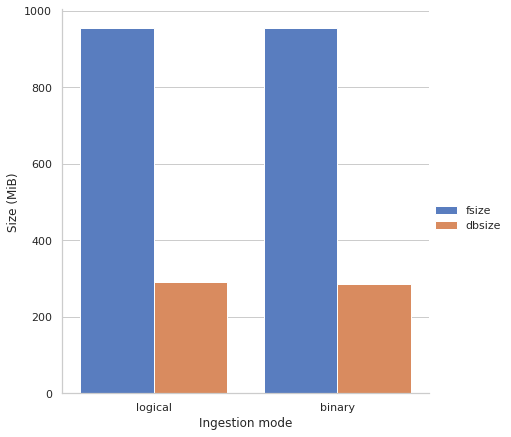
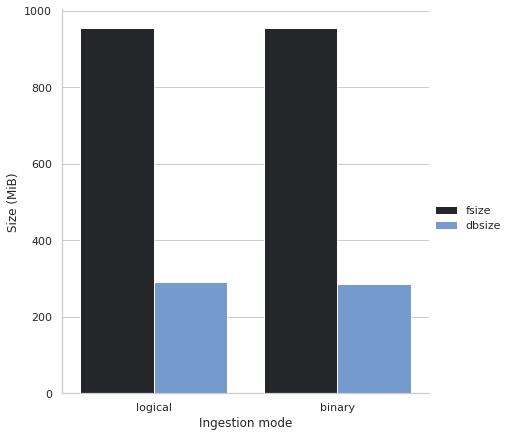
Alter color palette for monochrome requirements

diff --git a/experiment_graphs.py b/experiment_graphs.py
@@ -196,6 +196,7 @@ for experiment_id in exps:
 # %%
 # Filtering DataFrame to only 'zlib' experiments
 df = df[df["compression_method"] == "zlib"]
+df = df[df["nsnps"] != 50000000.0]
 
 # %% [markdown]
 # #### Criando colunas concatenadas
@@ -235,7 +236,7 @@ df_melted.loc[df_melted["nsnps"] == 50000000, "nsnps"] = nsnps_ids[float(5000000
 df_melted.loc[df_melted["nsnps"] == 1000000, "nsnps"] = nsnps_ids[float(1000000)]
 df_melted.loc[df_melted["nsnps"] == 100000, "nsnps"] = nsnps_ids[float(100000)]
 df_melted = df_melted[df_melted["file_type"] != "Media"]
-sns.set(style="whitegrid", palette=sns.color_palette("muted", n_colors=6, desat=1.0))
+sns.set(style="whitegrid", palette=sns.color_palette("Blues_d", n_colors=3, desat=1.0))
 snsplot = sns.catplot(
     x="file_type",
     y="value",
@@ -277,7 +278,7 @@ df_melted["variable"] = (
 )
 df_melted["value"] /= 1024 ** 2
 df_melted = df_melted[df_melted["file_type"] != "Media"]
-sns.set(style="whitegrid", palette=sns.color_palette("muted", n_colors=6, desat=1.0))
+sns.set(style="whitegrid", palette=sns.color_palette("Blues_d", n_colors=6, desat=1.0))
 snsplot = sns.catplot(
     x="file_type",
     y="value",
@@ -331,16 +332,20 @@ df_melted = pd.melt(
     id_vars=["experiment_id", "compression_method", "file_type", "nsnps", "nsamples"],
     value_vars=["time"],
 )
-sns.set(style="whitegrid", palette=sns.color_palette("muted", n_colors=6, desat=1.0))
+df_melted.loc[df_melted["nsnps"] == 50000000, "nsnps"] = nsnps_ids[float(50000000)]
+df_melted.loc[df_melted["nsnps"] == 1000000, "nsnps"] = nsnps_ids[float(1000000)]
+df_melted.loc[df_melted["nsnps"] == 100000, "nsnps"] = nsnps_ids[float(100000)]
+sns.set(
+    style="whitegrid", palette=sns.color_palette("dark:#69d", n_colors=2, desat=1.0)
+)
 fig = plt.figure(figsize=(6.4, 6.4))
 ax = sns.lineplot(
     data=df_melted,
     x="nsamples",
     y="value",
-    hue="file_type",
-    hue_order=["0125", "PLINK", "VCF", "ALL"],
-    palette="tab10",
-    style="nsnps",
+    hue="nsnps",
+    # hue_order=["0125", "PLINK", "VCF", "ALL"],
+    style="file_type",
     ci=None,
     legend="auto",
     markers=True,
@@ -385,18 +390,19 @@ df_melted = df_melted[df_melted["nsnps"] == 100000.0]
 # df_melted['variable'] = df_melted['variable'].str.replace(
 #     '100000.0', '100k').str.replace('1000000.0', '1m')
 df_melted["value"] /= 1024 ** 2
-sns.set(style="whitegrid", palette=sns.color_palette("muted", n_colors=6, desat=1.0))
+sns.set(
+    style="whitegrid", palette=sns.color_palette("dark:#69d", n_colors=2, desat=1.0)
+)
 
 fig = plt.figure(figsize=(6.4, 6.4))
 ax = sns.lineplot(
     data=df_melted,
     x="nsamples",
     y="value",
-    hue="file_type",
-    hue_order=["0125", "PLINK", "VCF", "ALL"],
-    palette="tab10",
-    style="variable",
-    style_order=["fsize", "dbsize"],
+    hue="variable",
+    # hue_order=["0125", "PLINK", "VCF", "ALL"],
+    style="file_type",
+    # style_order=["fsize", "dbsize"],
     ci=None,
     legend="auto",
     markers=True,
@@ -441,18 +447,20 @@ df_melted = df_melted[df_melted["nsnps"] == 1000000.0]
 # df_melted['variable'] = df_melted['variable'].str.replace(
 #     '100000.0', '100k').str.replace('1000000.0', '1m')
 df_melted["value"] /= 1024 ** 2
-sns.set(style="whitegrid", palette=sns.color_palette("muted", n_colors=6, desat=1.0))
+sns.set(
+    style="whitegrid", palette=sns.color_palette("dark:#69d", n_colors=2, desat=1.0)
+)
 
 fig = plt.figure(figsize=(6.4, 6.4))
 ax = sns.lineplot(
     data=df_melted,
     x="nsamples",
     y="value",
-    hue="file_type",
-    hue_order=["0125", "PLINK", "VCF", "ALL"],
-    palette="tab10",
-    style="variable",
-    style_order=["fsize", "dbsize"],
+    hue="variable",
+    # hue_order=["0125", "PLINK", "VCF", "ALL"],
+    # palette="tab10",
+    style="file_type",
+    # style_order=["fsize", "dbsize"],
     ci=None,
     legend="auto",
     markers=True,
@@ -561,17 +569,19 @@ df_melted = pd.melt(
 )
 df_melted.loc[:, "nsnps"].replace(100000.0, "100k", inplace=True)
 df_melted.loc[:, "nsnps"].replace(1000000.0, "1m", inplace=True)
-sns.set(style="whitegrid", palette=sns.color_palette("muted", n_colors=6, desat=1.0))
+sns.set(
+    style="whitegrid", palette=sns.color_palette("dark:#69d", n_colors=2, desat=1.0)
+)
 
 fig = plt.figure(figsize=(6.4, 6.4))
 ax = sns.lineplot(
     data=df_melted,
     x="nsamples",
     y="value",
-    hue="file_type",
-    hue_order=["0125", "PLINK", "VCF", "ALL"],
-    palette="tab10",
-    style="nsnps",
+    hue="nsnps",
+    # hue_order=["0125", "PLINK", "VCF", "ALL"],
+    # palette="tab10",
+    style="file_type",
     ci=None,
     legend="auto",
     markers=True,
@@ -619,7 +629,14 @@ df_melted = pd.melt(
     value_vars=["0125", "PLINK", "FastQ"],
 )
 df_melted.loc[:, "nsamples"] = df_melted["nsamples"].astype(np.int)
-sns.set(style="whitegrid", palette=sns.color_palette("muted", n_colors=6, desat=1.0))
+sns.set(
+    style="whitegrid",
+    palette=sns.color_palette(
+        "dark:#69d",
+        n_colors=3,
+        desat=1.0,
+    ),
+)
 
 snsplot = sns.catplot(
     x="nsamples",
@@ -649,17 +666,19 @@ df_melted = pd.melt(
 )
 df_melted.loc[:, "nsnps"].replace(100000.0, "100k", inplace=True)
 df_melted.loc[:, "nsnps"].replace(1000000.0, "1m", inplace=True)
-sns.set(style="whitegrid", palette=sns.color_palette("muted", n_colors=6, desat=1.0))
+sns.set(
+    style="whitegrid", palette=sns.color_palette("dark:#69d", n_colors=2, desat=1.0)
+)
 
 fig = plt.figure(figsize=(6.4, 6.4))
 ax = sns.lineplot(
     data=df_melted,
     x="nsamples",
     y="value",
-    hue="file_type",
-    hue_order=["0125", "PLINK", "VCF", "ALL"],
-    palette="tab10",
-    style="nsnps",
+    hue="nsnps",
+    # hue_order=["0125", "PLINK", "VCF", "ALL"],
+    # palette="tab10",
+    style="file_type",
     ci=None,
     legend="auto",
     markers=True,
@@ -709,7 +728,9 @@ df_melted = pd.melt(
     var_name="Format",
 )
 df_melted.loc[:, "nsamples"] = df_melted["nsamples"].astype(np.int)
-sns.set(style="whitegrid", palette=sns.color_palette("muted", n_colors=6, desat=1.0))
+sns.set(
+    style="whitegrid", palette=sns.color_palette("dark:#69d", n_colors=3, desat=1.0)
+)
 
 snsplot = sns.catplot(
     x="nsamples",
@@ -739,17 +760,22 @@ df_melted = pd.melt(
     id_vars=["experiment_id", "compression_method", "file_type", "nsnps", "nsamples"],
     value_vars=["delete_individual"],
 )
-sns.set(style="whitegrid", palette=sns.color_palette("muted", n_colors=6, desat=1.0))
+df_melted.loc[df_melted["nsnps"] == 50000000, "nsnps"] = nsnps_ids[float(50000000)]
+df_melted.loc[df_melted["nsnps"] == 1000000, "nsnps"] = nsnps_ids[float(1000000)]
+df_melted.loc[df_melted["nsnps"] == 100000, "nsnps"] = nsnps_ids[float(100000)]
+sns.set(
+    style="whitegrid", palette=sns.color_palette("dark:#69d", n_colors=2, desat=1.0)
+)
 
 fig = plt.figure(figsize=(6.4, 6.4))
 ax = sns.lineplot(
     data=df_melted,
     x="nsamples",
     y="value",
-    hue="file_type",
-    hue_order=["0125", "PLINK", "VCF", "ALL"],
-    palette="tab10",
-    style="nsnps",
+    hue="nsnps",
+    # hue_order=["0125", "PLINK", "VCF", "ALL"],
+    # palette="tab10",
+    style="file_type",
     ci=None,
     legend="auto",
     markers=True,
@@ -795,7 +821,9 @@ df_melted = pd.melt(
     id_vars=["exp_27"],
     value_vars=["time"],
 )
-sns.set(style="whitegrid", palette=sns.color_palette("Paired", n_colors=2, desat=1.0))
+sns.set(
+    style="whitegrid", palette=sns.color_palette("dark:#69d", n_colors=2, desat=1.0)
+)
 snsplot = sns.catplot(
     x="exp_27",
     y="value",
@@ -826,7 +854,9 @@ df_melted = pd.melt(
     value_vars=["fsize", "dbsize"],
 )
 df_melted["value"] /= 1024 ** 2
-sns.set(style="whitegrid", palette=sns.color_palette("muted", n_colors=6, desat=1.0))
+sns.set(
+    style="whitegrid", palette=sns.color_palette("dark:#69d", n_colors=2, desat=1.0)
+)
 snsplot = sns.catplot(
     x="exp_27",
     y="value",
